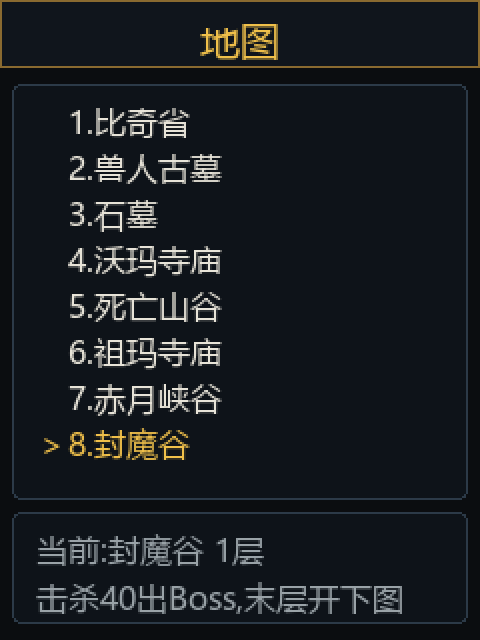
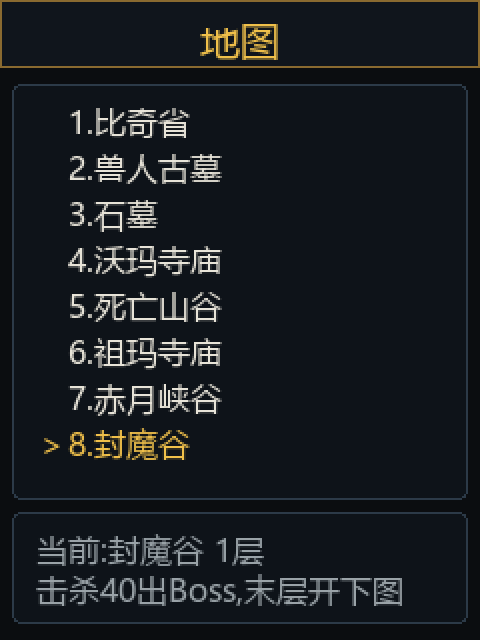
fix(mafa-chronicle): keep header values off the bars and re-sync mockups

Changed region(s): [[0.0625, 0.9062, 0.8438, 0.9688]]

diff --git a/docs/design/mafa/render_design.py b/docs/design/mafa/render_design.py
@@ -76,8 +76,10 @@ def save(img, name):
 def main_chrome(d):
     panel(d, 0, 0, W, 62, HEADER_BG, GOLD_EDGE, radius=0, bottom_only=True)
     panel(d, 0, 62, W, 36, STRIP_BG, PANEL_EDGE, radius=0, bottom_only=True)
-    d.rectangle([14, 88, 50, 105], fill=BG)      # caption punches the border
     panel(d, 4, 98, 232, 140, PANEL_BG, PANEL_EDGE)
+    # Caption bg rides both borders like the device's opaque label (pad 4):
+    # drawn after the log panel, covering the strip/log border lines.
+    d.rectangle([12, 88, 52, 108], fill=BG)
     text_c(d, 32, 90, "战况", F16, GOLD)
     panel(d, 0, 238, W, 82, (0x0C, 0x0F, 0x13), GOLD_EDGE, radius=0, top_border=True, bw=2)
 
@@ -89,9 +91,9 @@ def header(d, mapname, level, xp_pct, gold, hp, hpmax, mp, mpmax):
     text_r(d, 234, 6, f"Lv.{level} {xp_pct}%", F16, DIM)
     text_r(d, 234, 25, f"金{gold}", F16, GOLD)
     bar(d, 10, 33, 130, 10, hp/hpmax, HP_GREEN)
-    text_r(d, 136, 28, str(hp), F16, MAIN)
+    text_r(d, 178, 28, str(hp), F16, MAIN)
     bar(d, 10, 48, 130, 7, mp/mpmax, MP_BLUE)
-    text_r(d, 136, 44, str(mp), F16, MAIN)
+    text_r(d, 178, 44, str(mp), F16, MAIN)
 
 def enemy(d, s, color, ratio=None):
     if s.startswith("▶"):   # YaHei lacks U+25B6; draw the triangle instead
@@ -102,7 +104,7 @@ def enemy(d, s, color, ratio=None):
         x = 10
     text(d, (x, 71), s, F16, color)
     if ratio is not None:
-        bar(d, 104, 75, 128, 9, ratio, ENEMY_RED)
+        bar(d, 134, 75, 98, 9, ratio, ENEMY_RED)
 
 def loglines(d, lines):
     y = 107                                      # log_label abs (14,107)
@@ -122,7 +124,7 @@ def action_bar(d, cur):
     gap = d.textlength(" ", font=F16)
     for row in (0, 1):
         x = 12.0
-        y = 251 if row == 0 else 283             # bar 238..320, F16 rows
+        y = 251 if row == 0 else 282             # bar 238..320, F16 rows
         for col in range(4):
             i = row * 4 + col
             if i >= len(cells):
@@ -149,7 +151,7 @@ for i, nm in enumerate(["战士  高血高防", "法师  高魔脆皮", "道士 
     text(d, (18, 52 + i * (LH16 + 6)), mark + nm, F16, GOLD if i == 0 else MAIN)
 panel(d, 6, 200, 228, 112, PANEL_BG, PANEL_EDGE)
 text(d, (18, 210), "攻杀/刺杀/半月/烈火", F16, DIM)
-text(d, (18, 235), "Lv7 起步,技能书解锁进阶", F16, DIM)
+text(d, (18, 230), "Lv7 起步,技能书解锁进阶", F16, DIM)
 save(img, "02-class")
 
 # ---- 3. main idle ----------------------------------------------------------
@@ -242,11 +244,11 @@ for s, q in gear:
     y += LH16 + 2
 panel(d, 6, 230, 228, 90, PANEL_BG, PANEL_EDGE)
 text(d, (18, 238), "攻41 魔0 道0 防26", F16, DIM)
-text(d, (18, 260), "血233/260 蓝20/43", F16, DIM)
+text(d, (18, 258), "血233/260 蓝20/43", F16, DIM)
 x0 = 18 + d.textlength("血233/260 蓝20/43  ", font=F16)
-text(d, (x0, 260), "红药x3", F16, RED)
-text(d, (x0 + d.textlength("红药x3  ", font=F16), 260), "蓝药x2", F16, MP_BLUE)
-text(d, (18, 282), "OK 卸下,长按返回", F16, DIM)
+text(d, (x0, 258), "红药x3", F16, RED)
+text(d, (x0 + d.textlength("红药x3  ", font=F16), 258), "蓝药x2", F16, MP_BLUE)
+text(d, (18, 278), "OK 卸下,长按返回", F16, DIM)
 save(img, "07-status")
 
 # ---- 17. skill page: 7 class skills with on/off states (1.76 plan) -----------
@@ -276,8 +278,8 @@ for s, c in skills:
     y += LH16 + 5
 panel(d, 6, 240, 228, 72, PANEL_BG, PANEL_EDGE)
 text(d, (18, 248), "OK 切换开关,立即存档", F16, DIM)
-text(d, (18, 270), "群攻:2只以上才施放", F16, DIM)
-text(d, (18, 292), "高阶书:精英/Boss掉落", F16, DIM)
+text(d, (18, 268), "群攻:2只以上才施放", F16, DIM)
+text(d, (18, 288), "高阶书:精英/Boss掉落", F16, DIM)
 save(img, "17-skills")
 
 # ---- 8. backpack (gear-only slots; potions live on the gear page) ------------
@@ -298,8 +300,8 @@ for s, q in items:
     y += LH16 + 4
 panel(d, 6, 246, 228, 74, PANEL_BG, PANEL_EDGE)
 text(d, (18, 254), "攻+9 魔+0 道+0", F16, DIM)
-text(d, (18, 278), "防+5 血+30", F16, DIM)
-text(d, (18, 302), "金币 2380", F16, DIM)
+text(d, (18, 274), "防+5 血+30", F16, DIM)
+text(d, (18, 294), "金币 2380", F16, DIM)
 save(img, "08-backpack")
 
 # ---- 9. store: potions + three class books, level-gated (1.76 plan) ----------
@@ -346,7 +348,7 @@ for s, c in maps:
     y += LH16 + 4
 panel(d, 6, 256, 228, 56, PANEL_BG, PANEL_EDGE)
 text(d, (18, 264), "当前:封魔谷 1层", F16, DIM)
-text(d, (18, 288), "击杀40出Boss,末层开下图", F16, DIM)
+text(d, (18, 284), "击杀40出Boss,末层开下图", F16, DIM)
 save(img, "10-maps")
 
 # ---- 16. floor list: OK on a combat map opens its ladder ---------------------
@@ -367,7 +369,7 @@ for s, c in floors:
     y += LH16 + 4
 panel(d, 6, 256, 228, 56, PANEL_BG, PANEL_EDGE)
 text(d, (18, 264), "祖玛寺庙 共7层", F16, DIM)
-text(d, (18, 288), "长按OK返回地图", F16, DIM)
+text(d, (18, 284), "长按OK返回地图", F16, DIM)
 save(img, "16-maps-floors")
 
 # ---- 10b. main page while resting in the safe zone --------------------------

diff --git a/main/mafa_view.c b/main/mafa_view.c
@@ -114,27 +114,28 @@ lv_obj_t *mafa_view_page_main(mafa_view_t *v) {
     lv_obj_set_style_border_side(header, LV_BORDER_SIDE_BOTTOM, 0);
     v->map_label = new_label(header, 10, 6, true);
     lv_label_set_recolor(v->map_label, true);
-    /* Info column, TWO lines, right-aligned (the bar numbers now live on
-     * the bars, so this zone is bar-free): worst lines "Lv.14 100%" 73px
-     * (the percent is XP toward the next level; the cap shows bare
-     * "Lv.15") / "金65535" 61px in the 142px box — nothing collides. */
+    /* Info column, TWO lines, right-aligned (the bar values sit in their
+     * own column right of the bars, so this zone stays clear): worst lines
+     * "Lv.14 100%" 73px (the percent is XP toward the next level; the cap
+     * shows bare "Lv.15") / "金65535" 61px in the 142px box — nothing
+     * collides. */
     v->info_label = new_label(header, 92, 6, false);
     lv_label_set_recolor(v->info_label, true);
     lv_obj_set_style_text_color(v->info_label, MAFA_TEXT_DIM, 0);
     lv_obj_set_width(v->info_label, 142);
     lv_obj_set_style_text_align(v->info_label, LV_TEXT_ALIGN_RIGHT, 0);
-    /* Bars span 10..140; the current-value number is drawn ON the bar's
-     * right end (creation order keeps the label on top; the 19px text line
-     * bleeds a few px past the 10px bar onto the dark background). */
+    /* Bars span 10..140; each value sits right of its bar in a 36px
+     * right-aligned column (right edge 178, clear of the gold line's
+     * worst "金9999k" ink starting at 182) — no text over graphics. */
     v->hp_bar = bar(header, 10, 33, 130, 10, MAFA_HP_GREEN);
-    v->hp_text = new_label(header, 70, 28, false);
+    v->hp_text = new_label(header, 142, 28, false);
     lv_obj_set_style_text_color(v->hp_text, MAFA_TEXT_MAIN, 0);
-    lv_obj_set_width(v->hp_text, 66);
+    lv_obj_set_width(v->hp_text, 36);
     lv_obj_set_style_text_align(v->hp_text, LV_TEXT_ALIGN_RIGHT, 0);
     v->mp_bar = bar(header, 10, 48, 130, 7, MAFA_MP_BLUE);
-    v->mp_text = new_label(header, 70, 44, false);
+    v->mp_text = new_label(header, 142, 44, false);
     lv_obj_set_style_text_color(v->mp_text, MAFA_TEXT_MAIN, 0);
-    lv_obj_set_width(v->mp_text, 66);
+    lv_obj_set_width(v->mp_text, 36);
     lv_obj_set_style_text_align(v->mp_text, LV_TEXT_ALIGN_RIGHT, 0);
 
     /* Enemy strip: ▶mob name (+ ×N pack count; gold when boss) + monster
